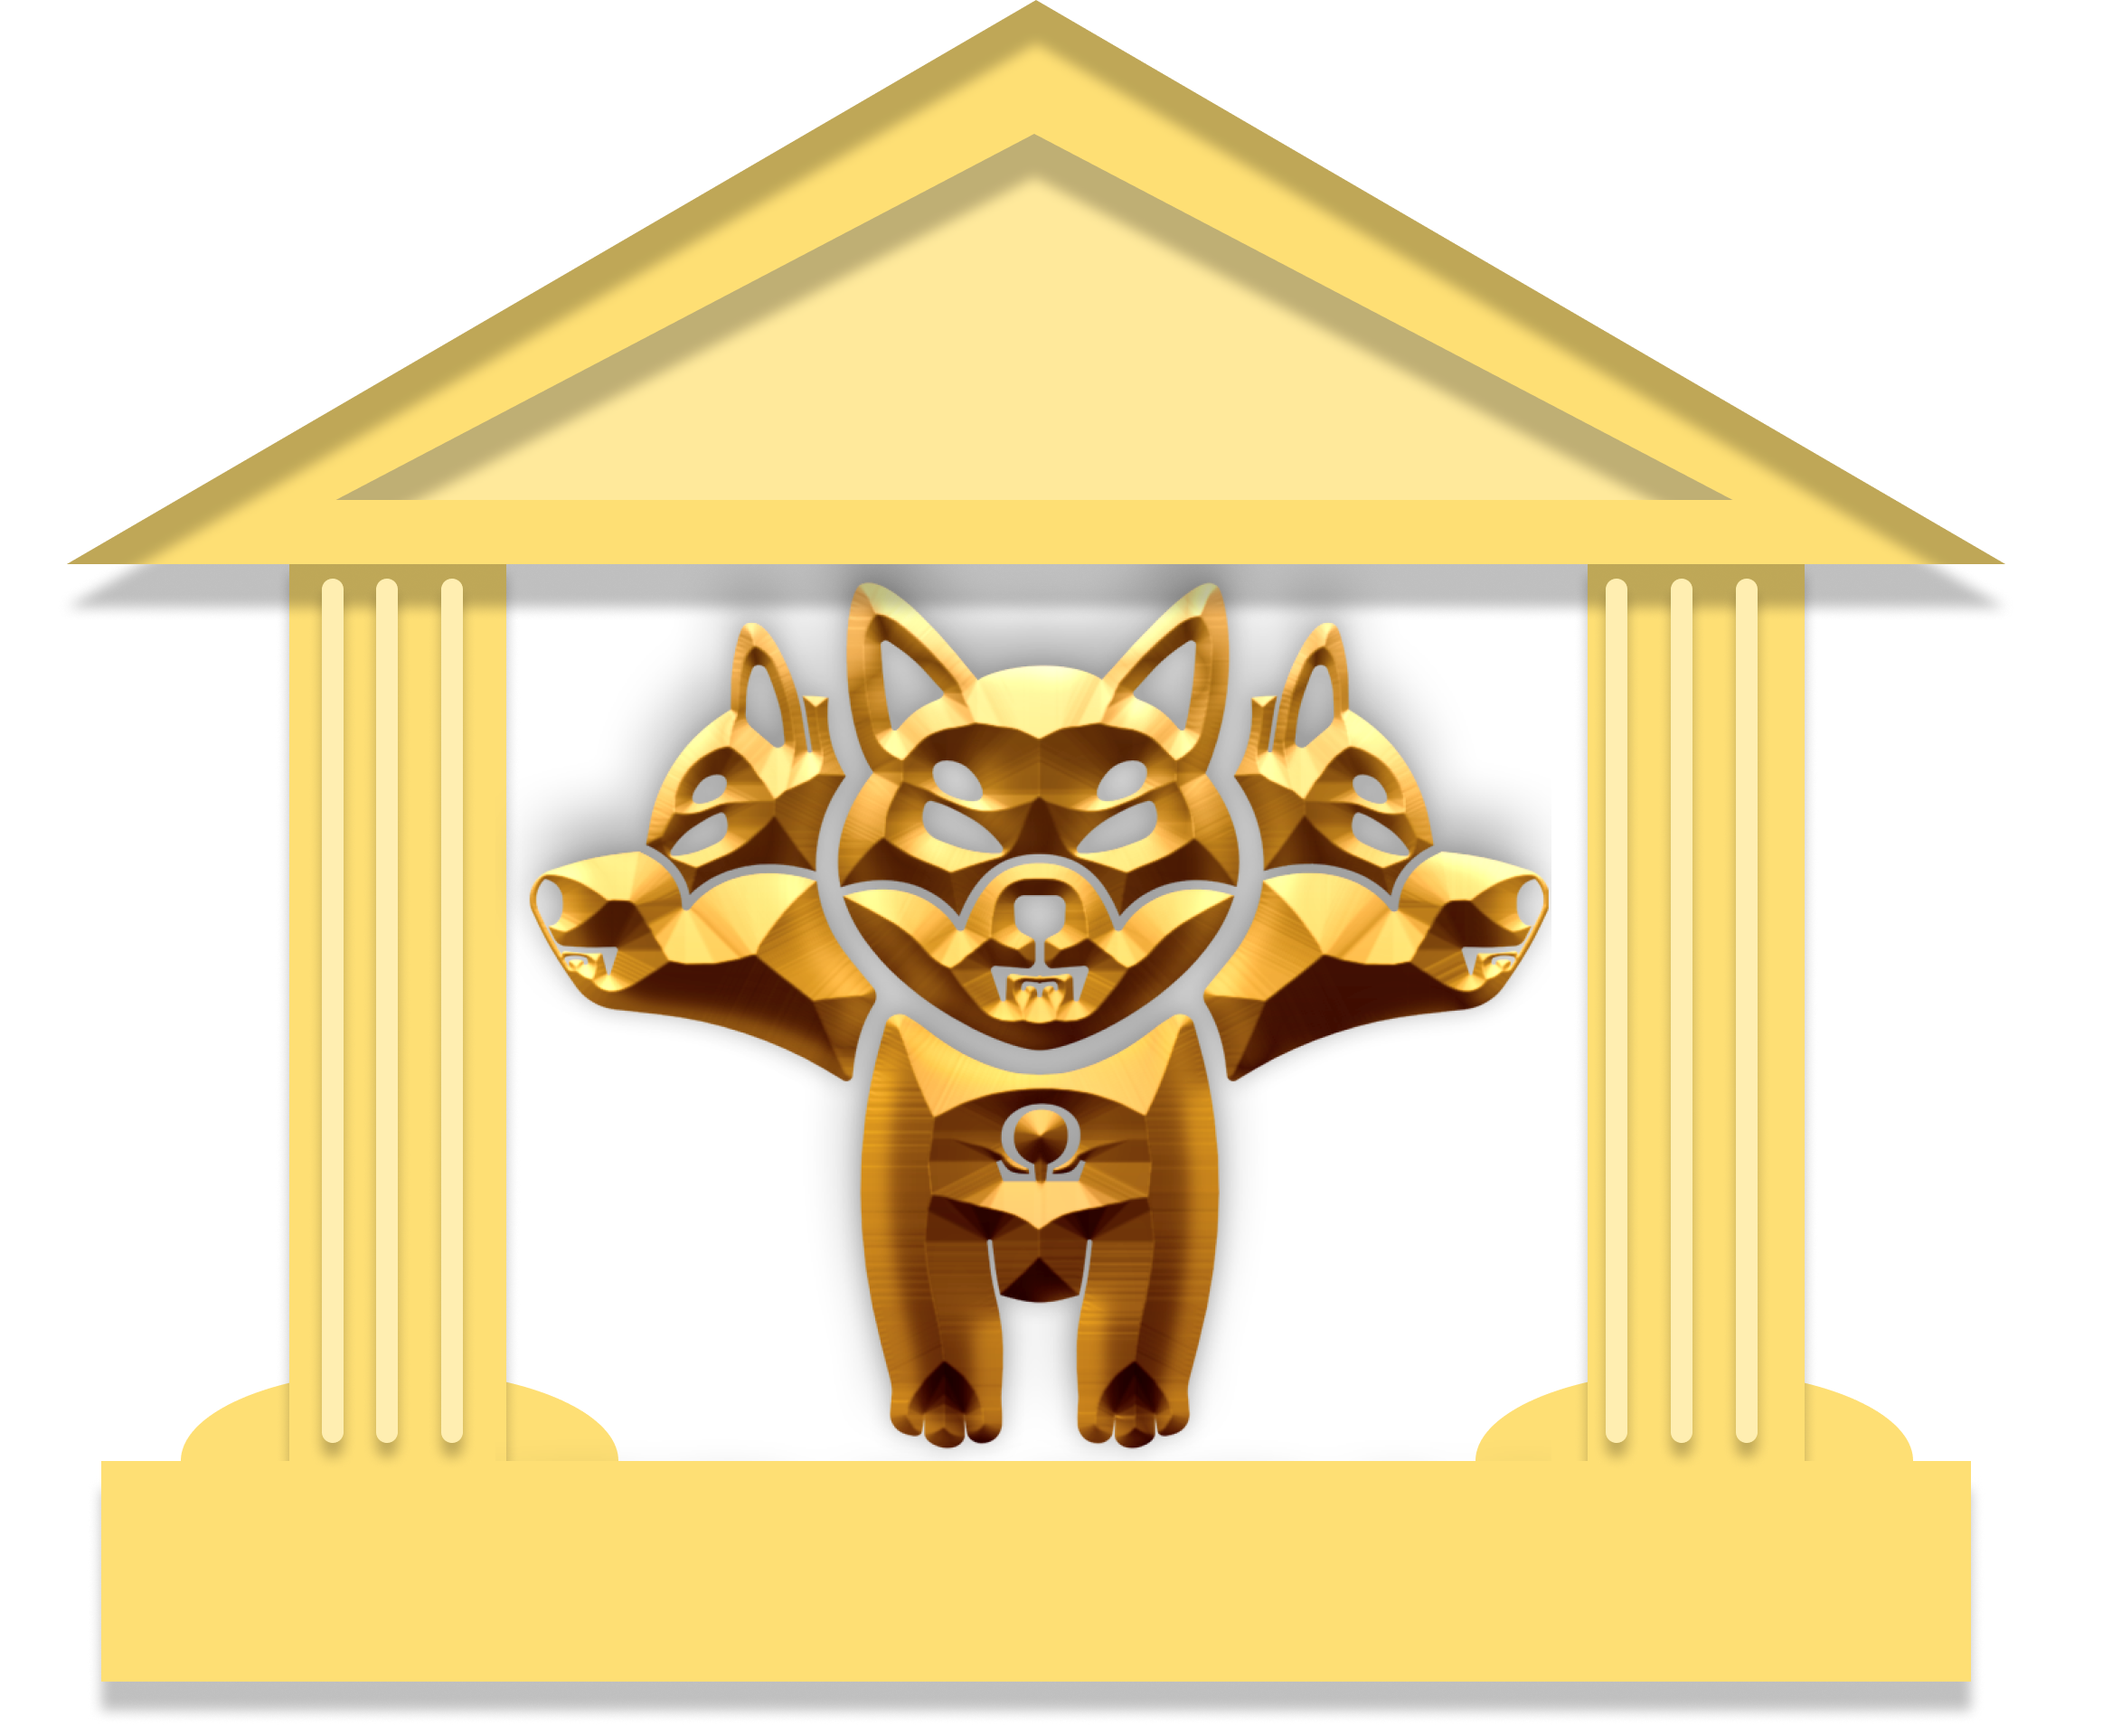
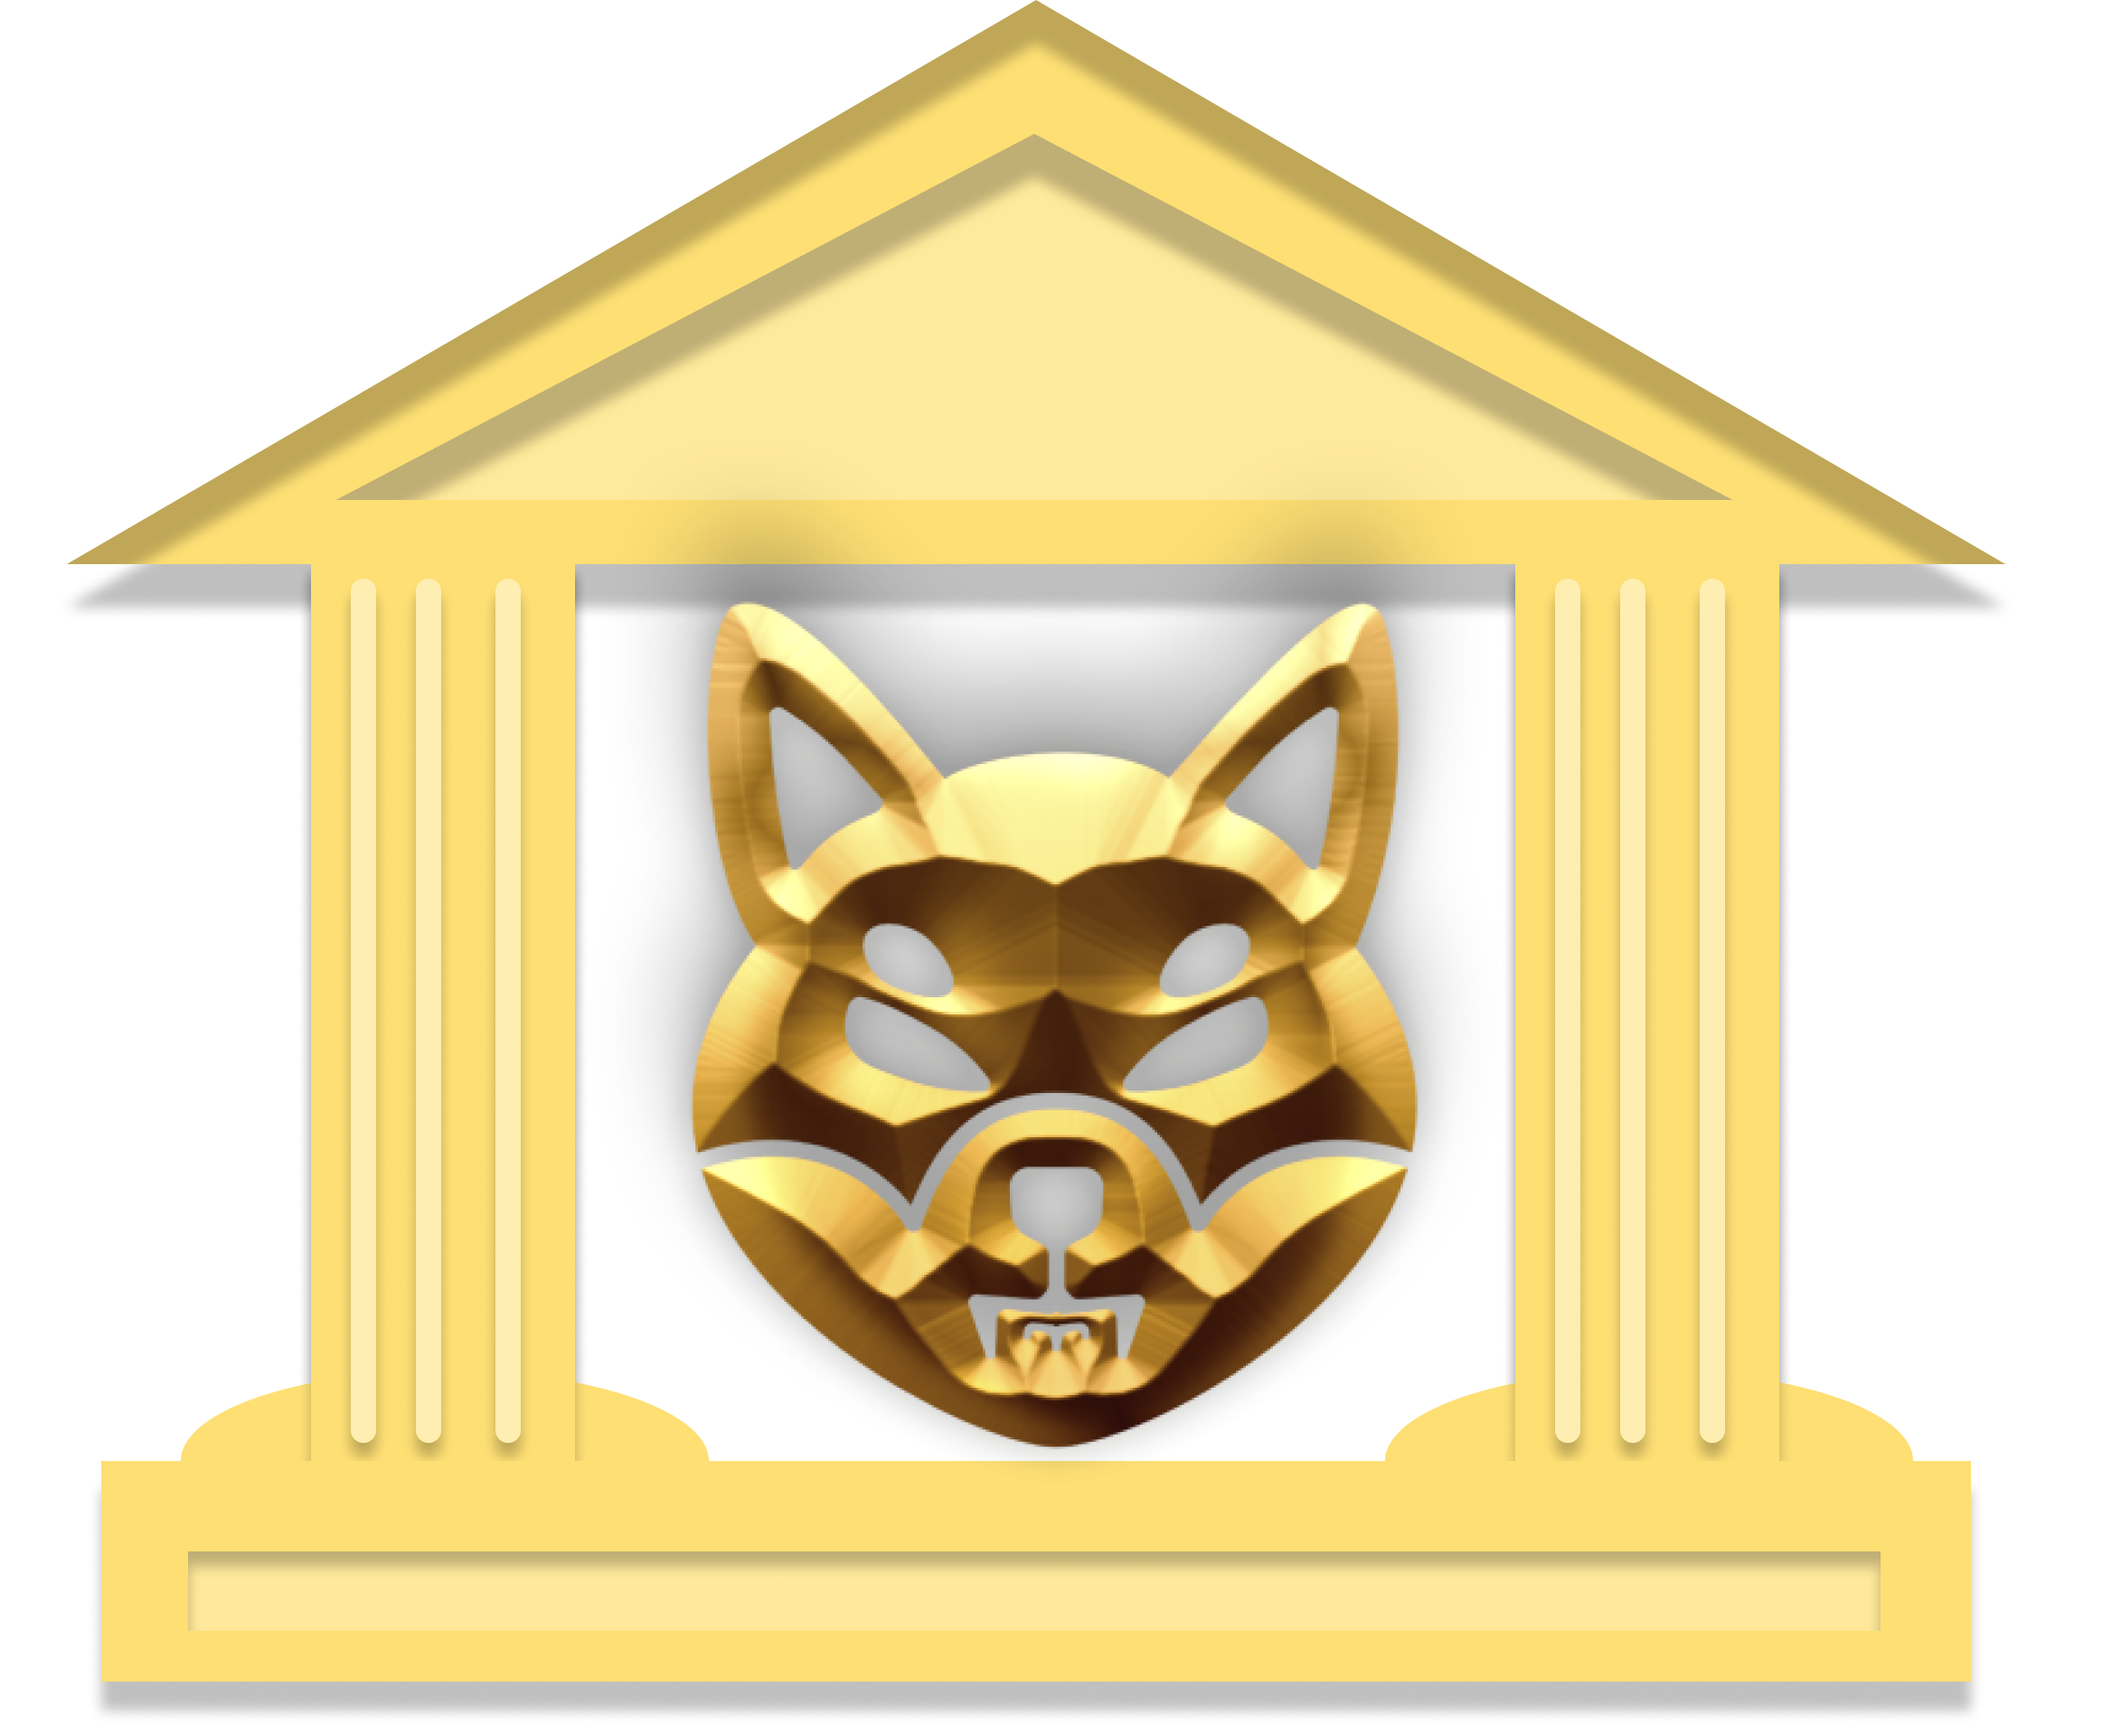
added graphics

diff --git a/src/style/River.css b/src/style/River.css
@@ -1,26 +1,48 @@
 @import url(//fonts.googleapis.com/css?family=Lato:300:400);
 
+.text-and-image{
+  margin: auto;
+  display: flex; 
+  flex-direction: row; 
+  width: 70%;
+  height: fit-content;
+  padding-top: 2%;
+  margin-top: 3%;
+  margin-bottom: 3%;
+  padding-bottom: 2%;
+  background-color: #680404;
+  background-image: linear-gradient(180deg, #3f0c0c 0%, #2b2929 100%);
+  border-radius: 100px;
+  box-shadow: rgba(255, 255, 255, 0.336) 0px 15px 25px, rgba(255, 255, 255, 0.13) 0px 5px 10px;
+} 
+.coin{
+  width: 35%;
+  margin-left: 10%;
+  margin-right: 1%;
+}
 .river-title{
+  font-family: 'Nunito', sans-serif;
     background: -webkit-linear-gradient(rgb(248, 243, 170), rgb(221, 199, 5));
  	-webkit-background-clip: text;
   	-webkit-text-fill-color: transparent;
-    font-size: 64px;
+    font-size: 84px;
     padding-top: 5%;
-    width: 75%;
+    padding-bottom: 5%;
+    width: 100%;
     text-align: center;
     margin: auto;
     padding-bottom: 2%;
 }
 .river-text{
-    background: -webkit-linear-gradient(rgb(221, 199, 5), rgb(248, 243, 170));
-    -webkit-background-clip: text;
-     -webkit-text-fill-color: transparent;
+  font-family: 'Nunito', sans-serif;
     font-size: 32px;
-    margin-top: 5%;
-    width: 75%;
-    text-align: center;
+    margin-top: 6%;
+    width: 45%;
+    text-align: left;
+    margin-right: 17%;
+    color: rgb(177, 174, 174);
     margin: auto;
-    padding-bottom: 4%;
+    padding-bottom: 2%;
 }
 
 .waves {
@@ -65,6 +87,7 @@
 /*Shrinking for mobile*/
 @media (max-width: 768px) {
   .river-title{
+    font-family: 'Nunito', sans-serif;
       background: -webkit-linear-gradient(rgb(248, 243, 170), rgb(221, 199, 5));
     -webkit-background-clip: text;
       -webkit-text-fill-color: transparent;
@@ -76,18 +99,41 @@
       padding-bottom: 7%;
   }
   .river-text{
-      background: -webkit-linear-gradient(rgb(221, 199, 5), rgb(248, 243, 170));
-      -webkit-background-clip: text;
-      -webkit-text-fill-color: transparent;
-      font-size: 22px;
-      margin-top: 6%;
-      width: 80%;
-      text-align: left;
-      margin: auto;
-      padding-bottom: 4%;
+    font-family: 'Nunito', sans-serif;
+    font-size: 22px;
+    margin-top: -3%;
+    width: 80%;
+    text-align: left;
+    margin: auto;
+    padding-bottom: 4%;
+    color: rgb(177, 174, 174);
+    padding-bottom: 5%;
   }
   .waves {
     height:80px;
     min-height:60px;
   }
+
+  .text-and-image{
+    margin: auto;
+    display: flex; 
+    flex-direction: column; 
+    width: 90%;
+    height: fit-content;
+    padding-top: 2%;
+    margin-top: 3%;
+    margin-bottom: 3%;
+    padding-bottom: 2%;
+    background-color: #680404;
+    background-image: linear-gradient(180deg, #3f0c0c 0%, #2b2929 100%);
+    border-radius: 100px;
+    box-shadow: rgba(255, 255, 255, 0.336) 0px 15px 25px, rgba(255, 255, 255, 0.13) 0px 5px 10px;
+  } 
+  .coin{
+    margin: auto;
+    margin-bottom: -8%;
+    width: 70%;
+    margin-top:-4% ;
+  }
+
 }

diff --git a/src/style/Landing.css b/src/style/Landing.css
@@ -11,18 +11,18 @@
     flex-direction: column;
   }
   .title{
+    font-family: 'Nunito', sans-serif;
 	  margin-top: 15%;
 	  margin-left: 15%;
-    font-family: 'Raleway', sans-serif bold;
     background: -webkit-linear-gradient(rgb(255, 253, 220), rgb(255, 230, 0));
  	 -webkit-background-clip: text;
   	-webkit-text-fill-color: transparent;
     font-size: 95px;
   }
   .desc{
+    font-family: 'Nunito', sans-serif;
     margin-top: 10%;
     margin-left: 15%;
-    font-family: 'Raleway', sans-serif;
     font-size: 50px;
     width: 80%;
 	  color: white;
@@ -51,22 +51,22 @@
       flex-direction: column;
     }
     .title{
+      margin: auto;
+      font-family: 'Nunito', sans-serif;
       margin-top: 15%;
-      margin-left: 5%;
-      font-family: 'Raleway', sans-serif bold;
       background: -webkit-linear-gradient(rgb(245, 239, 157), rgb(179, 163, 22));
       -webkit-background-clip: text;
       -webkit-text-fill-color: transparent;
-      font-size: 68px;
+      font-size: 50px;
+      
     }
     .desc{
-      margin-top: 10%;
-      margin-left: 5%;
-      font-family: 'Raleway', sans-serif;
-      font-size: 33px;
+      font-family: 'Nunito', sans-serif;
+      margin: auto;
+      font-size: 27px;
       width: 80%;
-      color: white;
-      margin-top: -5%;
+      margin-top: -2%;
+      text-align: center;
       background: -webkit-linear-gradient(rgb(247, 240, 152), rgb(173, 158, 22));
        -webkit-background-clip: text;
       -webkit-text-fill-color: transparent;

diff --git a/src/style/ElevatorPitch.css b/src/style/ElevatorPitch.css
@@ -22,6 +22,7 @@
     box-shadow: rgba(255, 255, 255, 0.336) 0px 15px 25px, rgba(255, 255, 255, 0.13) 0px 5px 10px;
 }
 .pitch-title{
+    font-family: 'Nunito', sans-serif;
     margin-top: -1%;
     text-align: center;
     font-size: 75px;
@@ -30,6 +31,7 @@
   	-webkit-text-fill-color: transparent;
 }
 .pitch-body{
+    font-family: 'Nunito', sans-serif;
     text-align: center;
     margin: auto;
     font-size: 28px;
@@ -61,7 +63,7 @@
         box-shadow: rgba(255, 255, 255, 0.336) 0px 15px 25px, rgba(78, 20, 20, 0.13) 0px 5px 10px;
     }
     .pitch-title{
-        font-family: 'Raleway';
+        font-family: 'Nunito', sans-serif;
         font-weight: bolder;
         margin-top: -2%;
         margin-left: 1%;
@@ -73,11 +75,13 @@
           -webkit-text-fill-color: transparent;
     }
     .pitch-body{
+        font-family: 'Nunito', sans-serif;
         text-align: center;
         margin: auto;
         font-size: 22px;
         width: 90%;
         padding-bottom: 8%;
+        margin-top: -8%;
         /* background: -webkit-linear-gradient(rgb(248, 243, 170), rgb(255, 230, 0));
           -webkit-background-clip: text; */
           color: rgb(177, 174, 174);

diff --git a/src/components/River.js b/src/components/River.js
@@ -1,11 +1,15 @@
 import '../style/River.css'
+import coin from '../media/dog_coin.png'
 
 function River() {
 
     return (
         <div>
             <p className="river-title">Think of a river that never stops flowing...</p>
-            <p className="river-text">What sets Cerberus apart from Olympus and its forks is that it harnesses the limitless power of meme coins, rather than relying solely on stablecoins to fill its treasury.</p>
+            <div className="text-and-image">
+                <img className='coin' src={coin}/>
+                <p className="river-text">What sets Cerberus apart from Olympus and its forks is that it harnesses the limitless power of meme coins, rather than relying solely on stablecoins to fill its treasury.</p>
+            </div>
             <svg className="waves" xmlns="http://www.w3.org/2000/svg" xmlnsXlink="http://www.w3.org/1999/xlink"
                 viewBox="0 24 150 28" preserveAspectRatio="none" shape-rendering="auto">
                 <defs>

diff --git a/src/components/Landing.js b/src/components/Landing.js
@@ -7,19 +7,18 @@ function Landing() {
    
     return(
         <div>
+            {isMobile &&
+                 <img src={dog} style={{ width:'60%', marginBottom:'-22%', marginTop: '1%' }} />
+            }
             <div className="info">
-                
                 <div className="vertical">
-                    <h1 className="title">{isMobile ? 'Cerberus DAO' : 'CerberusDAO'}</h1>
+                    <h1 className="title">CerberusDAO</h1>
                     <h2 className="desc">A decentralized reserve currency that harnesses the power of memes.</h2>
                 </div>
                 <div className="img">
                     <img src={dog} className="img"/>
                 </div>
             </div>
-            {isMobile &&
-                 <img src={dog} style={{ width:'75%' }} />
-            }
         </div>
     )
 }

diff --git a/src/style/Bar.css b/src/style/Bar.css
@@ -1,15 +1,14 @@
 
          .barTitle{
-          font-family: 'Raleway';
           font-weight: bold;
           font-size: 38px;
           color: #FFD700;
           margin-left: 3%;
           text-align: left;
-         }
+          font-family: 'Nunito', sans-serif;
+        }
          .btn-grad {
             margin: 10px;
-            font-family: 'Raleway';
             font-weight: bolder;
             text-align: center;
             text-transform: none;        
@@ -23,7 +22,7 @@
           }
           @media only screen and (max-width: 767px) {
           .barTitle{
-            font-family: 'Raleway';
+            font-family: 'Nunito', sans-serif;
             font-weight: bold;
             font-size: 24px;
             color: #FFD700;

diff --git a/public/index.html b/public/index.html
@@ -5,8 +5,7 @@
     <link rel="icon" href="%PUBLIC_URL%/dog.png" />
     <link rel="preconnect" href="https://fonts.googleapis.com">
     <link rel="preconnect" href="https://fonts.gstatic.com" crossorigin>
-    <link href="https://fonts.googleapis.com/css2?family=Raleway:wght@100&display=swap" rel="stylesheet">
-    <meta name="viewport" content="width=device-width, initial-scale=1" />
+    <link href="https://fonts.googleapis.com/css2?family=Nunito:wght@200&display=swap" rel="stylesheet"><meta name="viewport" content="width=device-width, initial-scale=1" />
     <meta name="theme-color" content="#000000" />
     <meta
       name="description"

diff --git a/src/style/App.css b/src/style/App.css
@@ -23,15 +23,6 @@
   margin-bottom: 50px;
 }
 
-.coming-soon{
-  margin-left: 5%;
-  font-family: 'Raleway', sans-serif bold;
-  background: -webkit-linear-gradient(rgb(245, 239, 157), rgb(179, 163, 22));
-  -webkit-background-clip: text;
-  -webkit-text-fill-color: transparent;
-  font-size: 124px;
-}
-
 @media only screen and (max-width: 767px) {
   .App {
     text-align: center;
@@ -46,12 +37,5 @@
     width:fit-content;
     margin: 0;
   
-  }
-
-  .coming-soon{
-    margin-left: 0%;
-    font-family: 'Raleway', sans-serif bold;
-  
-    font-size: 84px;
   }
 }
